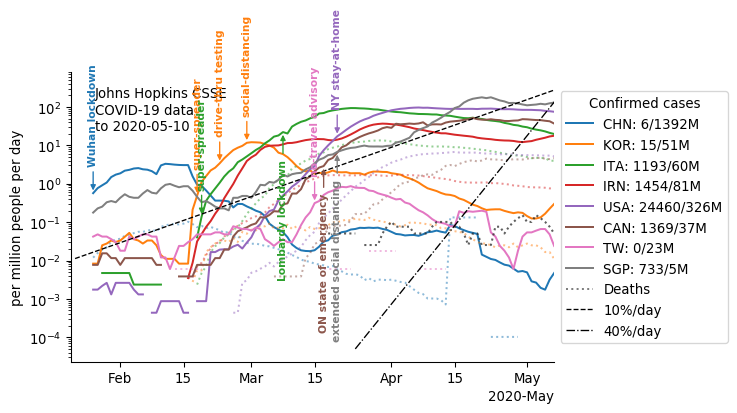
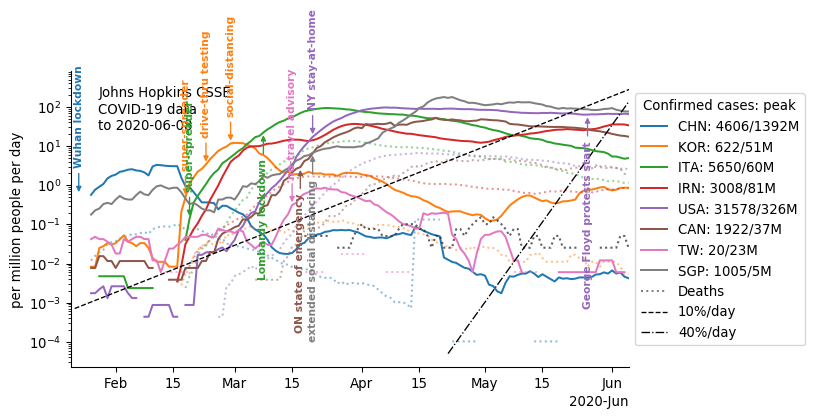
Updated plots and added 2 highlighting a few countries in South America and Africa.

diff --git a/visualization/plots.py b/visualization/plots.py
@@ -41,34 +41,50 @@ PLOT_COUNTRIES = [
      'Sweden', 'Canada'],
     ['China', 'South Korea', 'Italy', 'Spain', 'United States', 'Canada',
      'Russia', 'Brazil'],
+    ['China',  'United States', 'Canada',
+     'Uruguay', 'Peru', 'Brazil', 'Mexico', 'Cuba'],
+    ['China', 'United States', 'Canada',
+     'South Africa', 'Zimbabwe', 'Kenya', 'Uganda', 'DR Congo'],
      ]
 
-RENAME = {
+CASES_RENAME = {
     'US': 'United States',
     'Taiwan*': 'Taiwan',
-    'Korea, South': 'South Korea'}
+    'Korea, South': 'South Korea',
+    'Congo (Kinshasa)': 'DR Congo',
+    }
+POP_RENAME = {
+    'Korea, Rep.': 'South Korea',
+    'Iran, Islamic Rep.': 'Iran',
+    'Russian Federation': 'Russia',
+    'Congo, Dem. Rep.': 'DR Congo',
+    }
 NON_STATES = ['Recovered']
 
 EVENT_DF = pd.read_fwf(StringIO('''\
-         country                         event        date arrow                                                                         source
-           China                Wuhan lockdown  2020-01-23    up   https://en.wikipedia.org/wiki/2019-20_coronavirus_pandemic_in_mainland_China
-     South Korea                super-spreader  2020-02-18    up          https://www.csis.org/analysis/timeline-south-koreas-response-covid-19
-           Italy                super-spreader  2020-02-19    up               https://en.wikipedia.org/wiki/2020_coronavirus_pandemic_in_Italy
-     South Korea            drive-thru testing  2020-02-23    up          https://www.csis.org/analysis/timeline-south-koreas-response-covid-19
-     South Korea             social-distancing  2020-02-29    up          https://www.csis.org/analysis/timeline-south-koreas-response-covid-19
-           Italy             Lombardy lockdown  2020-03-08  down               https://en.wikipedia.org/wiki/2020_coronavirus_pandemic_in_Italy
-          Taiwan            no-travel advisory  2020-03-15    up              https://en.wikipedia.org/wiki/2020_coronavirus_pandemic_in_Taiwan
-          France                      lockdown  2020-03-16    up              https://en.wikipedia.org/wiki/2020_coronavirus_pandemic_in_France
-         Germany    non-essential shops closed  2020-03-16  down             https://en.wikipedia.org/wiki/2020_coronavirus_pandemic_in_Germany
-          Canada         ON state of emergency  2020-03-17  down             https://en.wikipedia.org/wiki/2020_coronavirus_pandemic_in_Ontario
-         Ontario            state of emergency  2020-03-17  down             https://en.wikipedia.org/wiki/2020_coronavirus_pandemic_in_Ontario
-British Columbia            state of emergency  2020-03-18  down    https://en.wikipedia.org/wiki/2020_coronavirus_pandemic_in_British_Columbia
-   United States               NY stay-at-home  2020-03-20    up            https://en.wikipedia.org/wiki/2020_coronavirus_pandemic_in_New_York
-          Russia               Moscow lockdown  2020-03-20  down              https://en.wikipedia.org/wiki/2020_coronavirus_pandemic_in_Russia
-       Singapore    extended social distancing  2020-03-20  down           https://en.wikipedia.org/wiki/2020_coronavirus_pandemic_in_Singapore
-          Quebec  non-essential business close  2020-03-23  down              https://en.wikipedia.org/wiki/2020_coronavirus_pandemic_in_Quebec
-  United Kingdom                      lockdown  2020-03-24  down  https://en.wikipedia.org/wiki/2020_coronavirus_pandemic_in_the_United_Kingdom
-         Alberta  non-essential business close  2020-03-28  down             https://en.wikipedia.org/wiki/2020_coronavirus_pandemic_in_Alberta
+         country                         event        date arrow                                                                                   source
+           China                Wuhan lockdown  2020-01-23    up             https://en.wikipedia.org/wiki/2019-20_coronavirus_pandemic_in_mainland_China
+     South Korea                super-spreader  2020-02-18    up                    https://www.csis.org/analysis/timeline-south-koreas-response-covid-19
+           Italy                super-spreader  2020-02-19    up                         https://en.wikipedia.org/wiki/2020_coronavirus_pandemic_in_Italy
+     South Korea            drive-thru testing  2020-02-23    up                    https://www.csis.org/analysis/timeline-south-koreas-response-covid-19
+     South Korea             social-distancing  2020-02-29    up                    https://www.csis.org/analysis/timeline-south-koreas-response-covid-19
+         Uruguay                super-spreader  2020-03-07    up  https://www.theguardian.com/world/2020/mar/19/uruguay-coronavirus-party-guest-argentina
+           Italy             Lombardy lockdown  2020-03-08  down                         https://en.wikipedia.org/wiki/2020_coronavirus_pandemic_in_Italy
+          Taiwan            no-travel advisory  2020-03-15    up                        https://en.wikipedia.org/wiki/2020_coronavirus_pandemic_in_Taiwan
+          France                      lockdown  2020-03-16    up                        https://en.wikipedia.org/wiki/2020_coronavirus_pandemic_in_France
+         Germany    non-essential shops closed  2020-03-16  down                       https://en.wikipedia.org/wiki/2020_coronavirus_pandemic_in_Germany
+          Canada         ON state of emergency  2020-03-17  down                       https://en.wikipedia.org/wiki/2020_coronavirus_pandemic_in_Ontario
+         Ontario            state of emergency  2020-03-17  down                       https://en.wikipedia.org/wiki/2020_coronavirus_pandemic_in_Ontario
+British Columbia            state of emergency  2020-03-18  down              https://en.wikipedia.org/wiki/2020_coronavirus_pandemic_in_British_Columbia
+   United States               NY stay-at-home  2020-03-20    up                      https://en.wikipedia.org/wiki/2020_coronavirus_pandemic_in_New_York
+          Russia               Moscow lockdown  2020-03-20  down                        https://en.wikipedia.org/wiki/2020_coronavirus_pandemic_in_Russia
+       Singapore    extended social distancing  2020-03-20  down                     https://en.wikipedia.org/wiki/2020_coronavirus_pandemic_in_Singapore
+          Quebec  non-essential business close  2020-03-23  down                        https://en.wikipedia.org/wiki/2020_coronavirus_pandemic_in_Quebec
+  United Kingdom                      lockdown  2020-03-24  down            https://en.wikipedia.org/wiki/2020_coronavirus_pandemic_in_the_United_Kingdom
+         Alberta  non-essential business close  2020-03-28  down                       https://en.wikipedia.org/wiki/2020_coronavirus_pandemic_in_Alberta
+          France        réouverture des écoles  2020-05-11  down  https://www.education.gouv.fr/reouverture-progressive-des-ecoles-retour-en-images-303600
+   United States   George Floyd protests start  2020-05-26  down                                      https://en.wikipedia.org/wiki/George_Floyd_protests
+          Quebec      Montreal daycares reopen  2020-06-01  down  https://www.ledevoir.com/societe/education/580011/les-garderies-de-montreal-en-bonne-partie-boudees-a-leur-reouverture
 '''))  # noqa
 EVENT_DF['date'] = pd.to_datetime(EVENT_DF.date).dt.date
 
@@ -132,7 +148,7 @@ cases_df.columns = [maybe_date(item) for item in cases_df.columns]
 dates = [item for item in cases_df.columns
          if isinstance(item, datetime.date)]
 as_of = 'Johns Hopkins CSSE\nCOVID-19 data\nto %s' % dates[-1]
-cases_df['Country/Region'] = cases_df['Country/Region'].replace(RENAME)
+cases_df['Country/Region'] = cases_df['Country/Region'].replace(CASES_RENAME)
 cases_df['Province/State'].fillna('', inplace=True)
 cases_df = cases_df[~cases_df['Province/State'].isin(NON_STATES)]
 
@@ -153,7 +169,7 @@ cases_province_df[cases_province_df == 0] = np.NaN
 
 deaths_df = pd.read_csv(os.path.join(DATA_PATH, DEATHS_CSV))
 deaths_df.columns = [maybe_date(item) for item in deaths_df.columns]
-deaths_df['Country/Region'] = deaths_df['Country/Region'].replace(RENAME)
+deaths_df['Country/Region'] = deaths_df['Country/Region'].replace(CASES_RENAME)
 deaths_df['Province/State'].fillna('', inplace=True)
 deaths_df = deaths_df[~deaths_df['Province/State'].isin(NON_STATES)]
 
@@ -178,10 +194,7 @@ pop_df = pd.read_csv(POP_CSV)
 pop_df['Value'] = pop_df['Value'].astype(int)
 pop_df.sort_values('Year', inplace=True)
 pop_df.drop_duplicates('Country Code', keep='last', inplace=True)
-pop_df['Country Name'] = pop_df['Country Name'].replace(
-    {'Korea, Rep.': 'South Korea',
-     'Iran, Islamic Rep.': 'Iran',
-     'Russian Federation': 'Russia'})
+pop_df['Country Name'] = pop_df['Country Name'].replace(POP_RENAME)
 pop_df.set_index('Country Name', inplace=True)
 pop_df.at['Taiwan', 'Value'] = 23.78e6
 pop_df.at['Taiwan', 'Country Code'] = 'TW'
@@ -191,9 +204,10 @@ prov_pop_df = pd.read_csv(PROV_POP_CSV, skipfooter=12,
 
 # %% plot country data
 for i, countries in enumerate(PLOT_COUNTRIES, start=1):
-    fig, ax = plt.subplots(figsize=(6.5, 4))
+    fig, ax = plt.subplots(figsize=(7.5, 4))
     ax.annotate(as_of, (0.05, 0.95), xycoords='axes fraction', va='top')
     for country in countries:
+
         try:
             milion_people = pop_df.at[country, 'Value']/1e6
         except KeyError:
@@ -202,7 +216,7 @@ for i, countries in enumerate(PLOT_COUNTRIES, start=1):
             raise RuntimeError('No population data.')
 
         code = pop_df.at[country, 'Country Code']
-        cases = cases_country_df.loc[country, dates[LAST_VALID]]
+        cases = np.max(cases_country_df.loc[country])
         label = '%s: %d/%dM' % (code, cases, milion_people)
         line = ax.semilogy(
             dates, cases_country_df.loc[country, dates]/milion_people,
@@ -213,10 +227,11 @@ for i, countries in enumerate(PLOT_COUNTRIES, start=1):
                 kwargs = dict(xytext=(0, 20), va='bottom')
             else:
                 kwargs = dict(xytext=(0, -20), va='top')
-            date = max(info.date, dates[FIRST_VALID])
+            valid = ~pd.isnull(cases_country_df.loc[country, dates])
+            date = max(info.date, valid.idxmax())
             cases_pmp = cases_country_df.loc[country, date]/milion_people
             ax.annotate(
-                info.event, (date, cases_pmp), textcoords='offset points',
+                info.event, (info.date, cases_pmp), textcoords='offset points',
                 color=line.get_color(), fontsize=8, rotation=90, ha='center',
                 fontweight='bold',
                 arrowprops=dict(arrowstyle='-|>', color=line.get_color()),
@@ -236,7 +251,7 @@ for i, countries in enumerate(PLOT_COUNTRIES, start=1):
 
     add_rates(ax, dates, color='black', linewidth=1)
 
-    ax.legend(title='Confirmed cases', loc='center left',
+    ax.legend(title='Confirmed cases: peak', loc='center left',
               bbox_to_anchor=(1, 0.5))
     ax.set_ylabel('per million people per day')
     start_date = (pd.to_datetime(dates[0]) -
@@ -249,14 +264,14 @@ for i, countries in enumerate(PLOT_COUNTRIES, start=1):
     fig.savefig(confirmed_png, dpi=DPI, bbox_inches='tight')
 
 # %% plot province data
-fig, ax = plt.subplots(figsize=(6.5, 4))
+fig, ax = plt.subplots(figsize=(7.5, 4))
 ax.annotate(as_of, (0.05, 0.95), xycoords='axes fraction', va='top')
 
 for province in cases_province_df.iloc[:8].index:
     milion_people = prov_pop_df.at[province, 'Population, 2016']/1e6
     code = SGC_CODES[prov_pop_df.at[province, 'Geographic code']]
-    current = cases_province_df.loc[province, dates[LAST_VALID]]
-    label = '%s: %.1f/%.1fM' % (code, current, milion_people)
+    maximum = np.max(cases_province_df.loc[province])
+    label = '%s: %.1f/%.1fM' % (code, maximum, milion_people)
     line = ax.semilogy(
         dates, cases_province_df.loc[province, dates]/milion_people,
         label=label)[0]
@@ -270,6 +285,7 @@ for province in cases_province_df.iloc[:8].index:
         ax.annotate(
             info.event, (info.date, cases_pmp), textcoords='offset points',
             color=line.get_color(), fontsize=8, rotation=90, ha='center',
+            fontweight='bold',
             arrowprops=dict(arrowstyle='-|>', color=line.get_color()),
             **kwargs)
 
@@ -287,7 +303,8 @@ ax.xaxis.set_major_formatter(ConciseDateFormatter(locator))
 start_date = (pd.to_datetime(info.date) -
               pd.to_timedelta(30, unit='day')).date()
 add_rates(ax, [start_date, dates[LAST_VALID]], linewidth=1, color='black')
-ax.legend(title='Confirmed cases', loc='center left', bbox_to_anchor=(1, 0.5))
+ax.legend(title='Confirmed cases: peak', loc='center left',
+          bbox_to_anchor=(1, 0.5))
 ax.set_ylabel('per million people per day')
 ax.set_xlim((start_date, dates[LAST_VALID]))
 ax.spines['top'].set_visible(False)
